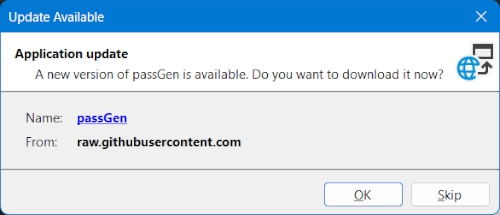
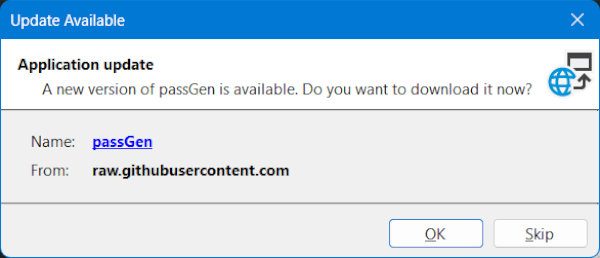
Deployed fab4146 with MkDocs version: 1.4.2

diff --git a/updating-the-app/index.html b/updating-the-app/index.html
@@ -628,7 +628,7 @@
 
 <h1 id="how-to-update-the-app">How to update the app<a class="headerlink" href="#how-to-update-the-app" title="Permanent link">&para;</a></h1>
 <p>When a new version of passGen is released, the app will prompt you to update. If you open the app and an update is available, the following screen will be displayed.</p>
-<p><img alt="Example: Updating the app" src="https://github.com/josh-wong/passGen/blob/main/docs/assets/screenshots/update-available.png" /></p>
+<p><img alt="Example: Updating the app" src="https://github.com/josh-wong/passGen/blob/main/docs/assets/screenshots/update-available.png?raw=true" /></p>
 <p>To update, select <strong>OK</strong>. Or if you want to skip the update, select <strong>Skip</strong>.</p>
 <div class="admonition warning">
 <p class="admonition-title">Warning</p>
